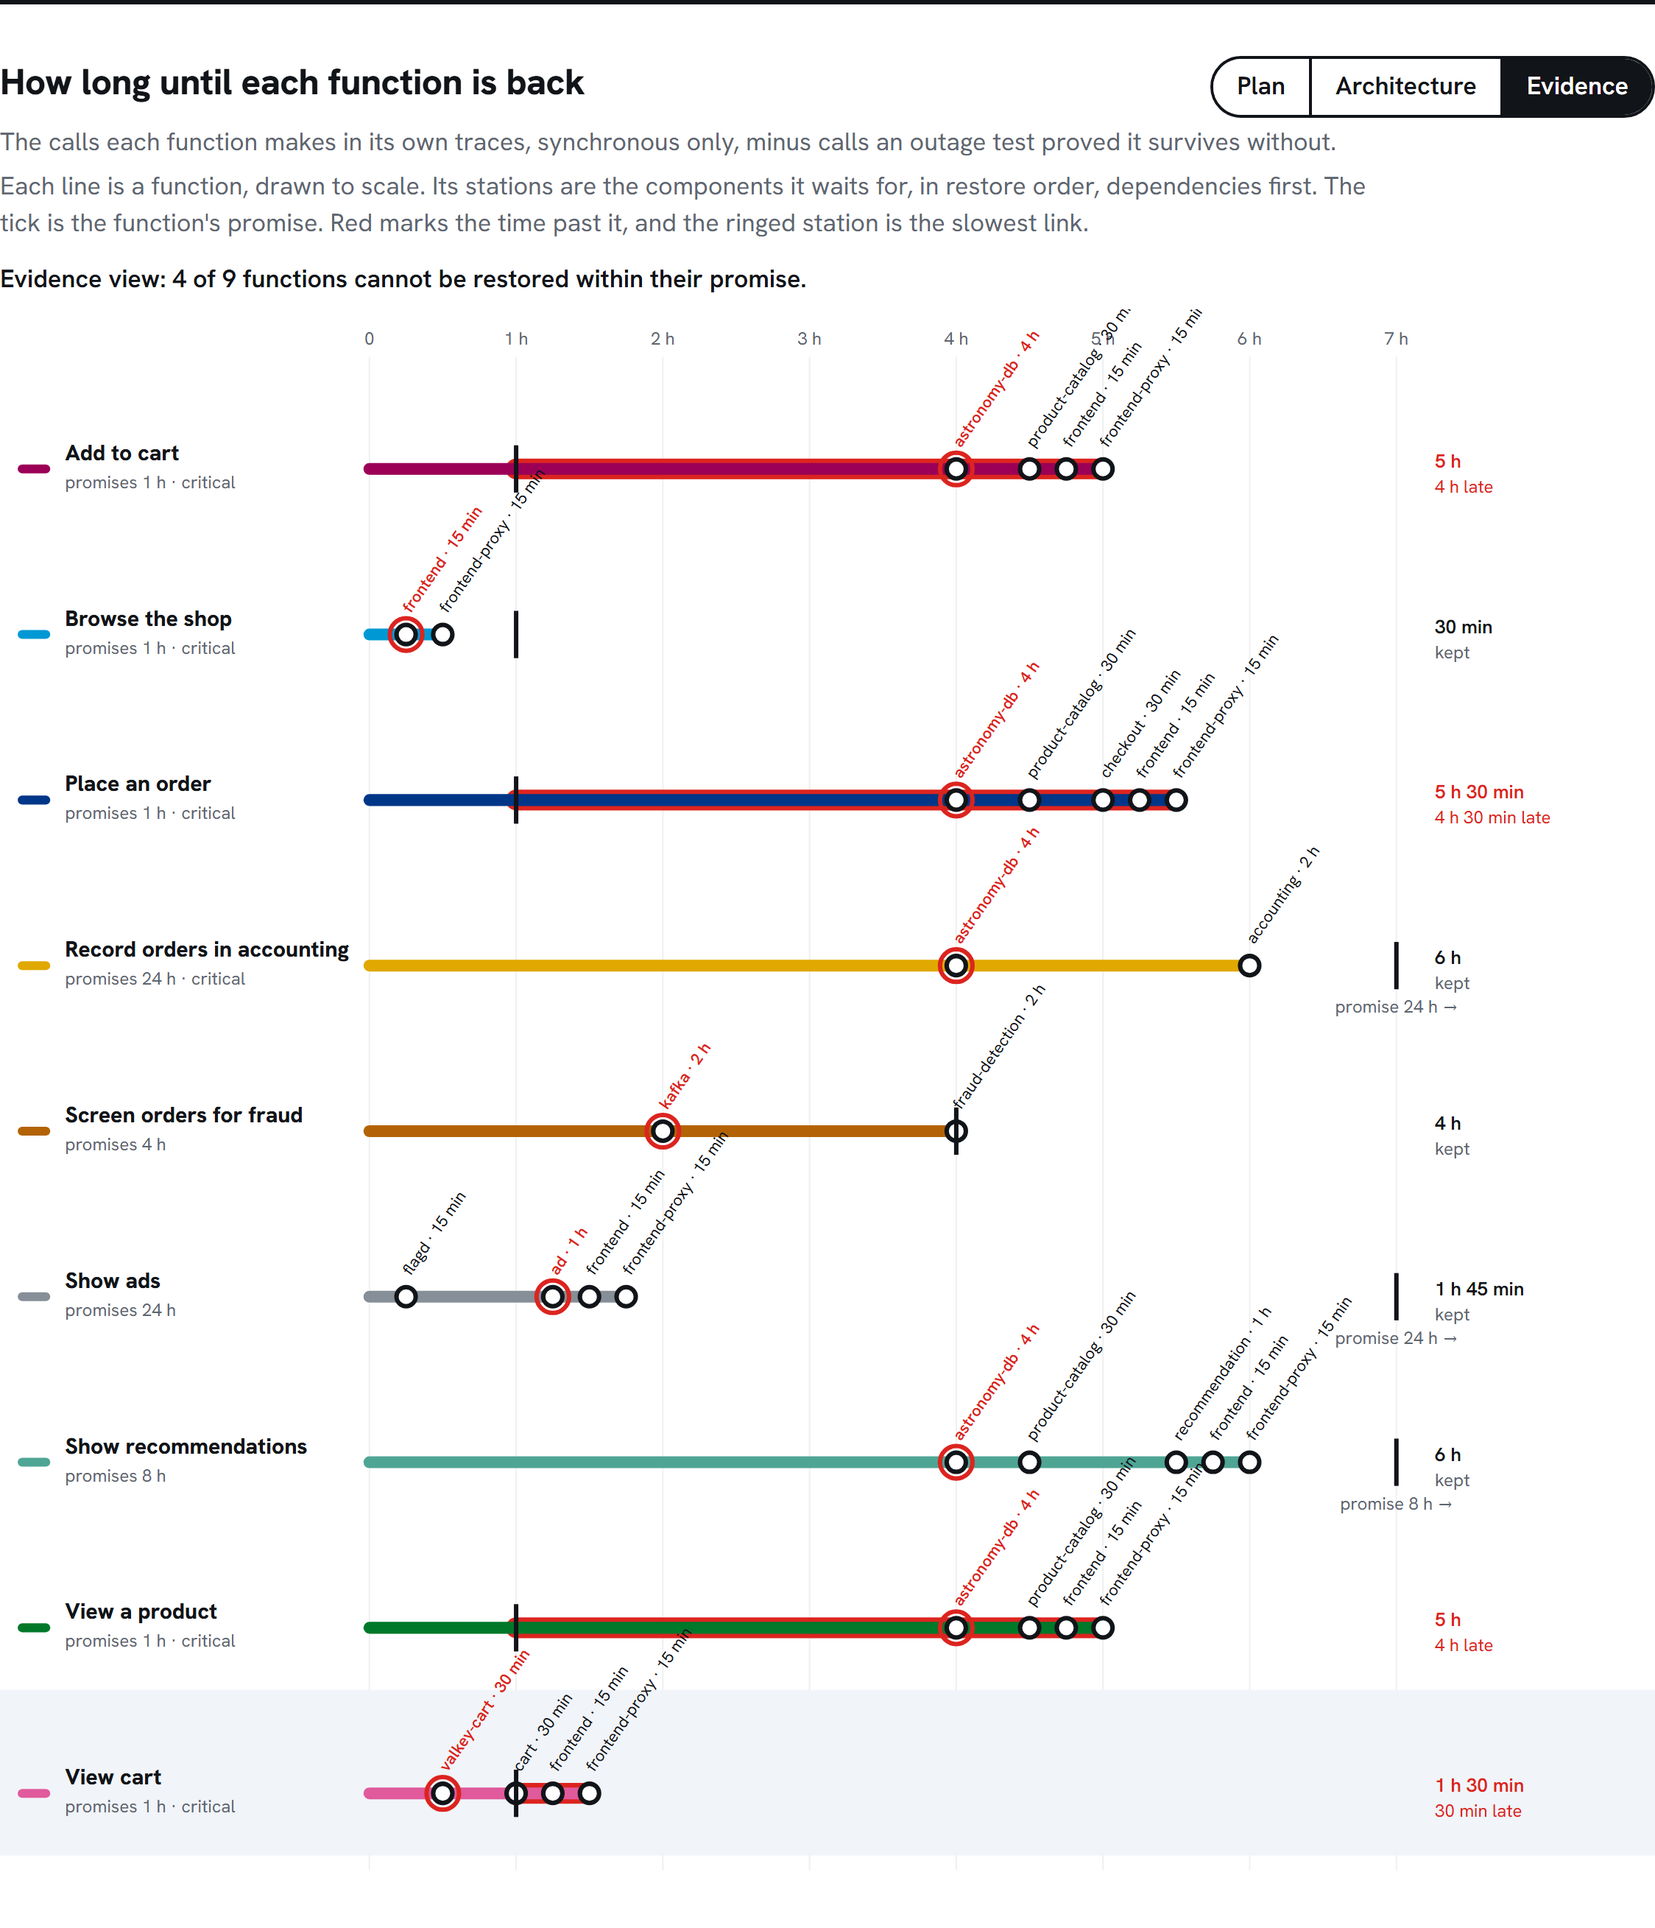
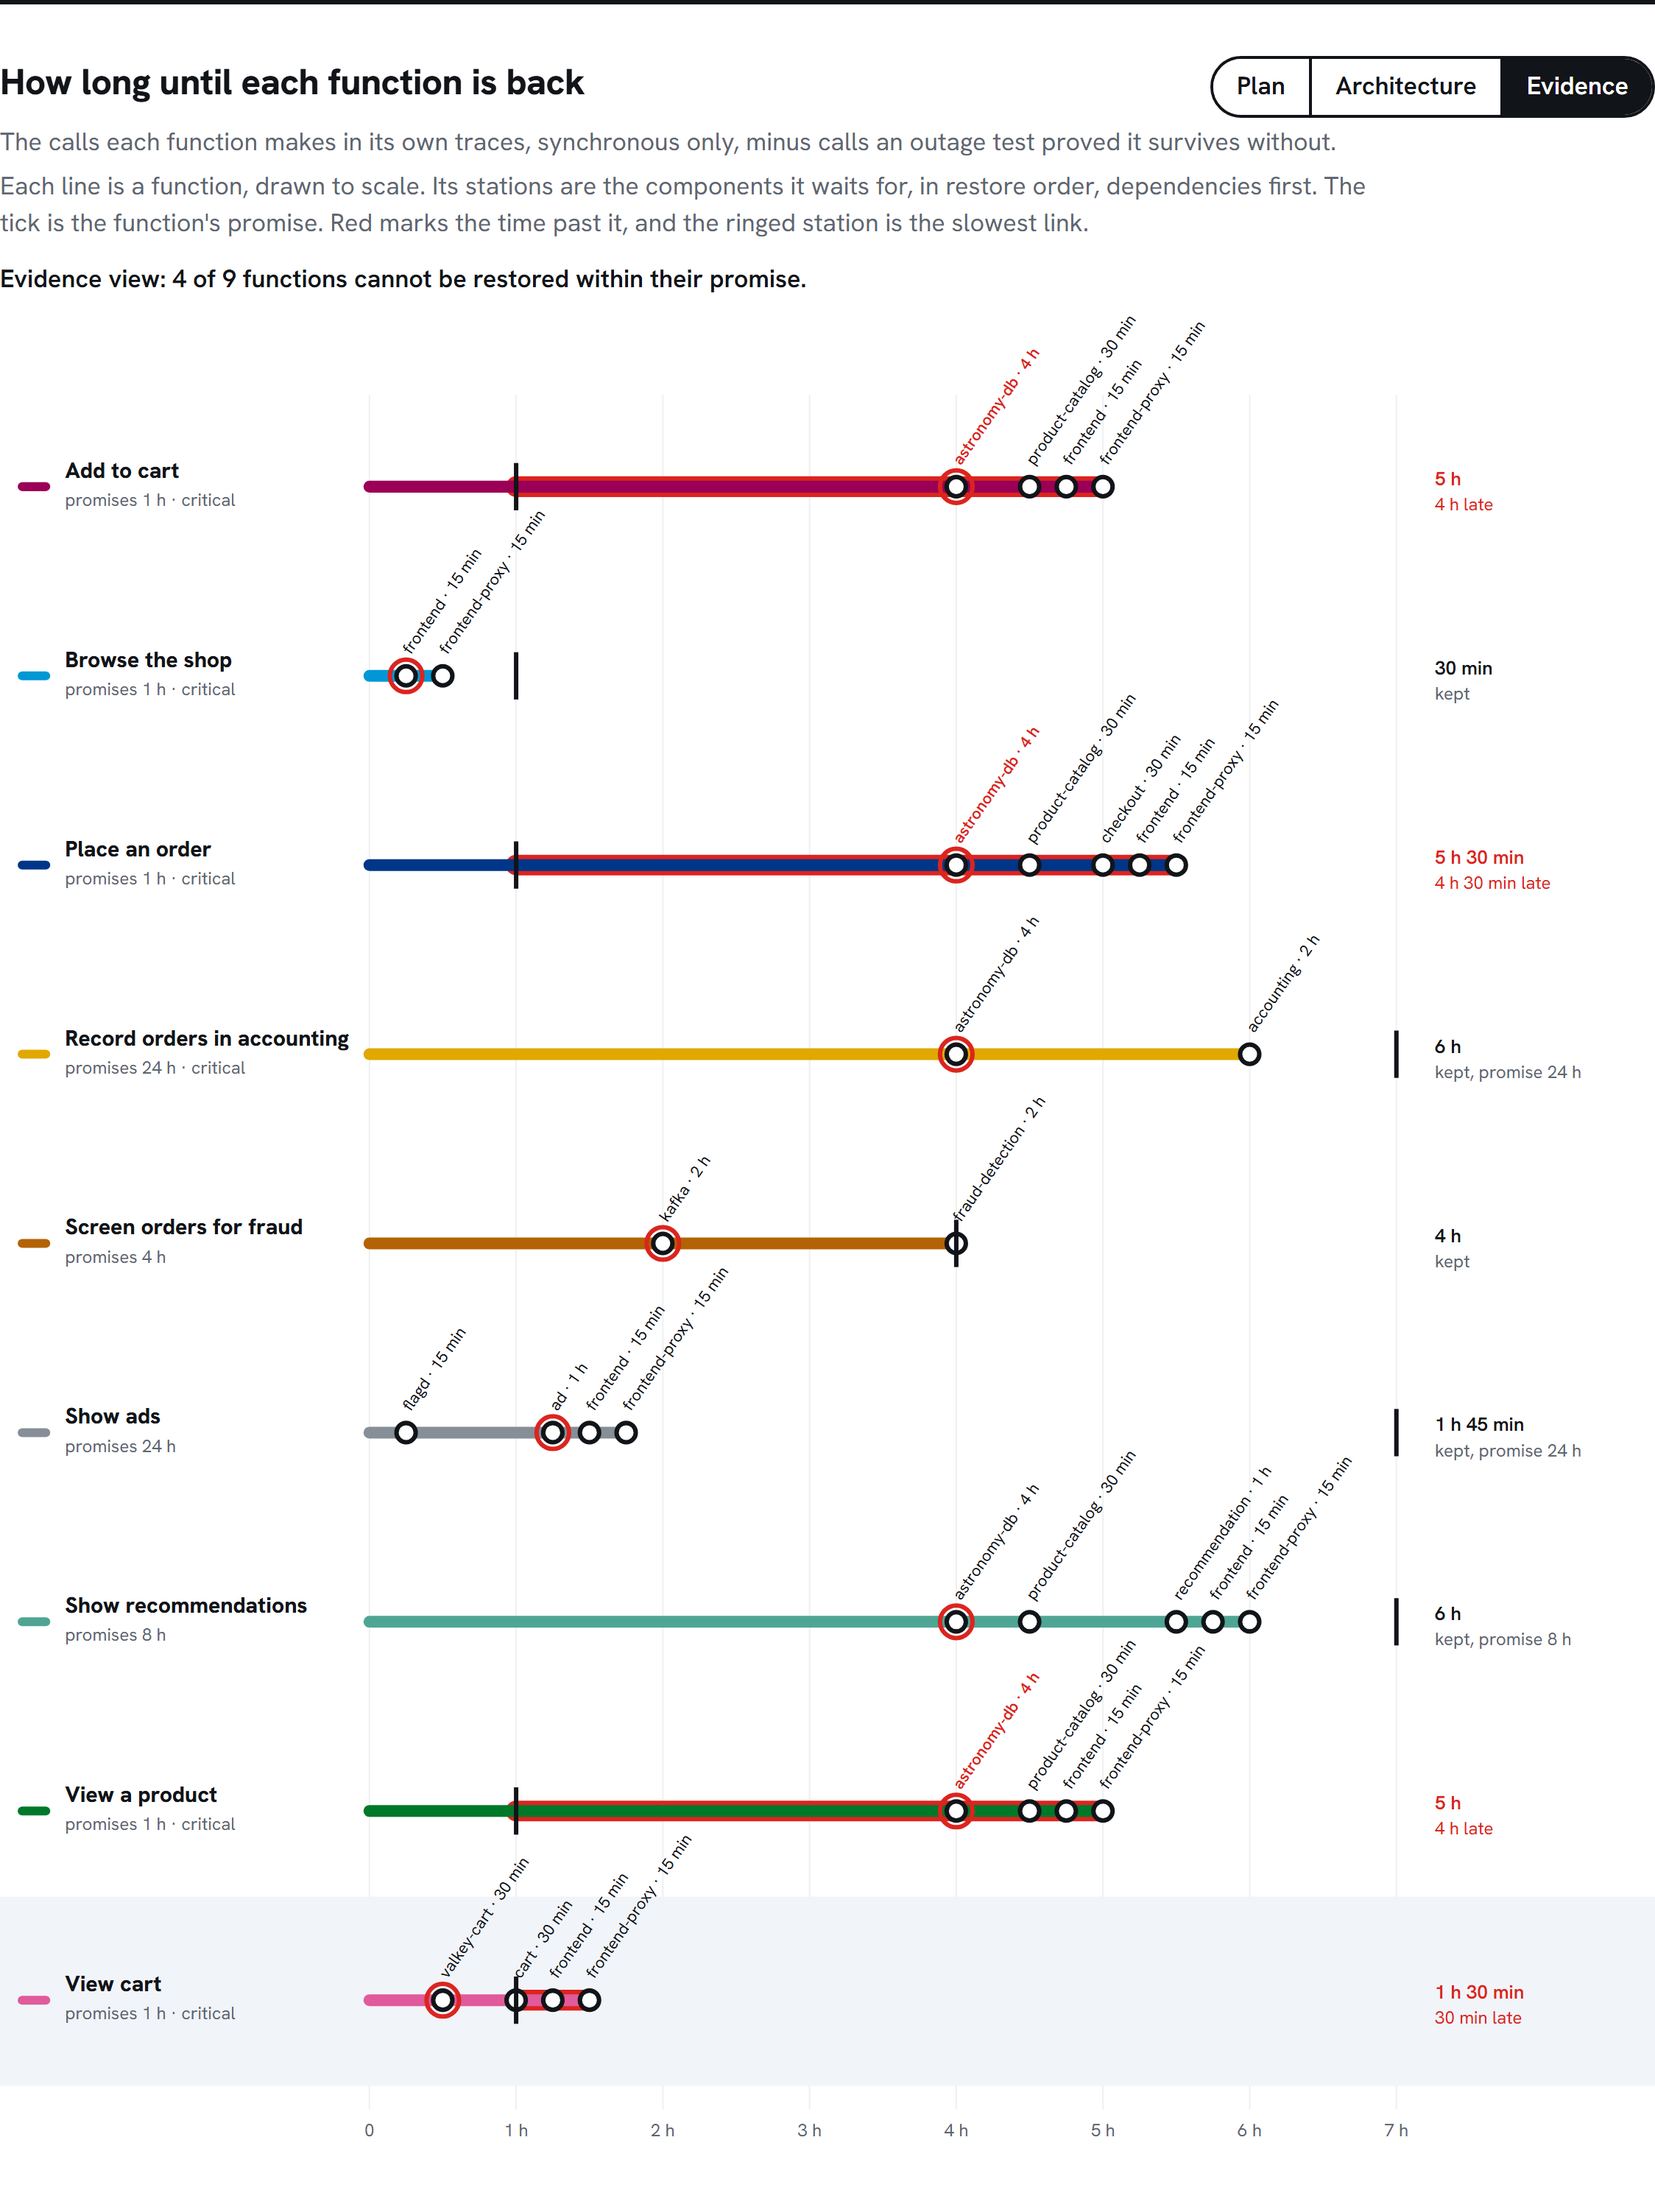
Page: hour scale below the lines, named columns in the results grid

diff --git a/web/js/app.js b/web/js/app.js
@@ -87,13 +87,14 @@ function drawMap() {
   const maxChain = Math.max(360, ...rows.map((r) => (r.chain.length ? r.chain[r.chain.length - 1].at : 0)));
   const scaleMax = Math.ceil((maxChain + 30) / 60) * 60;
   const x = (m) => left + ((right - left) * Math.min(m, scaleMax)) / scaleMax;
-  const rowH = 112;
-  const top = 46;
-  const height = top + rows.length * rowH + 10;
+  const rowH = 128;
+  const top = 58;
+  const height = top + rows.length * rowH + 34;
   const parts = [];
+  // The hour scale runs along the bottom, clear of the station names above each line.
   for (let m = 0; m <= scaleMax; m += 60) {
-    parts.push(`<line x1="${x(m)}" y1="${top - 14}" x2="${x(m)}" y2="${height - 8}" class="grid"/>`);
-    parts.push(`<text x="${x(m)}" y="${top - 22}" class="tick" text-anchor="middle">${m ? `${m / 60} h` : "0"}</text>`);
+    parts.push(`<line x1="${x(m)}" y1="${top}" x2="${x(m)}" y2="${height - 26}" class="grid"/>`);
+    parts.push(`<text x="${x(m)}" y="${height - 8}" class="tick" text-anchor="middle">${m ? `${m / 60} h` : "0"}</text>`);
   }
   rows.forEach((row, i) => {
     const y = top + i * rowH + 62;
@@ -118,13 +119,13 @@ function drawMap() {
     row.chain.forEach((s) => {
       const ring = s === slowest ? `<circle cx="${x(s.at)}" cy="${y}" r="11" fill="none" stroke="${RED}" stroke-width="3"/>` : "";
       parts.push(`${ring}<circle cx="${x(s.at)}" cy="${y}" r="6.5" class="station"/>`);
-      parts.push(`<text transform="translate(${x(s.at) + 3},${y - 14}) rotate(-55)" class="sname${s === slowest ? " slow" : ""}">${esc(s.name)} · ${minutes(s.recovery)}</text>`);
+      parts.push(`<text transform="translate(${x(s.at) + 3},${y - 14}) rotate(-55)" class="sname${s === slowest && s.recovery > promise ? " slow" : ""}">${esc(s.name)} · ${minutes(s.recovery)}</text>`);
     });
     const tick = promise <= scaleMax ? x(promise) : right;
     parts.push(`<line x1="${tick}" y1="${y - 16}" x2="${tick}" y2="${y + 16}" class="promise"/>`);
-    if (promise > scaleMax) parts.push(`<text x="${tick}" y="${y + 32}" class="pnote" text-anchor="middle">promise ${minutes(promise)} →</text>`);
     const first = end === 0 ? "nothing under it" : minutes(end);
-    const second = end === 0 ? "" : late ? `${minutes(end - promise)} late` : "kept";
+    const beyond = promise > scaleMax ? `, promise ${minutes(promise)}` : "";
+    const second = end === 0 ? "" : late ? `${minutes(end - promise)} late` : `kept${beyond}`;
     parts.push(`<text x="${right + 26}" y="${y - 1}" class="verdict${late ? " late" : ""}">${first}</text>`);
     parts.push(`<text x="${right + 26}" y="${y + 16}" class="vnote${late ? " late" : ""}">${second}</text>`);
     parts.push("</g>");
@@ -275,7 +276,7 @@ function drawResults() {
   const stops = t.outcomes.filter((o) => o.kind === "stop");
   const fnNames = t.functions;
   const pred = t.predictions || {};
-  const head = `<tr><th scope="col">Component stopped</th>${fnNames.map((f) => `<th scope="col"><span class="swatch" style="background:${LINE[f] || "#333"}"></span><span class="vh">${esc(f)}</span></th>`).join("")}</tr>`;
+  const head = `<tr><th scope="col" class="corner">Component stopped</th>${fnNames.map((f) => `<th scope="col" class="fn"><span class="vname">${esc(f)}</span><span class="swatch" style="background:${LINE[f] || "#333"}"></span></th>`).join("")}</tr>`;
   const body = stops
     .map((o) => {
       const cells = fnNames
@@ -291,8 +292,9 @@ function drawResults() {
     })
     .join("");
   $("#results-table").innerHTML = `<thead>${head}</thead><tbody>${body}</tbody>`;
-  const legend = fnNames.map((f) => `<li><span class="swatch" style="background:${LINE[f] || "#333"}"></span>${esc(f)}</li>`).join("");
-  $("#results-legend").innerHTML = legend;
+  $("#results-legend").innerHTML = `<li><span class="key">●</span> the function went down</li>
+    <li><span class="key miss-key"></span> the evidence view, frozen before the test, said otherwise</li>
+    <li><span class="key">·</span> no order reached the back office in the window, so it is not judged</li>`;
   const views = t.views?.stop || {};
   $("#results-scores").innerHTML = VIEWS.filter((v) => views[v])
     .map((v) => {

diff --git a/web/style.css b/web/style.css
@@ -49,7 +49,6 @@ section { padding: 34px 0 30px; border-top: 3px solid var(--ink); margin-top: 26
 #map .sname { font-size: 11px; fill: var(--ink); }
 #map .sname.slow { fill: var(--red); font-weight: 600; }
 #map .promise { stroke: var(--ink); stroke-width: 3; }
-#map .pnote { font-size: 12px; fill: var(--muted); }
 #map .verdict { font-size: 13px; font-weight: 600; fill: var(--ink); }
 #map .verdict.late { fill: var(--red); }
 #map .vnote { font-size: 12px; fill: var(--muted); }
@@ -61,11 +60,11 @@ section { padding: 34px 0 30px; border-top: 3px solid var(--ink); margin-top: 26
 .big { font-size: 1.5rem; font-weight: 800; margin: 0; }
 .big.late, .late > b { color: var(--red); }
 .list { margin: 0; }
-.stops { list-style: none; padding: 0; margin: 8px 0 0; display: flex; flex-wrap: wrap; align-items: center; row-gap: 8px; }
+.stops { list-style: none; padding: 0; margin: 8px 0 0; display: flex; flex-wrap: wrap; align-items: center; gap: 8px 8px; }
 .stops li { display: inline-flex; align-items: center; gap: 6px; font-size: 0.92rem; }
 .stops li + li::before { content: ""; width: 22px; height: 5px; background: var(--ink); margin: 0 6px 0 0; border-radius: 3px; }
 .stops .dot { width: 12px; height: 12px; border-radius: 50%; border: 3px solid var(--ink); background: var(--paper); }
-.stops .slow .dot { box-shadow: 0 0 0 3px var(--paper), 0 0 0 6px var(--red); }
+.stops .slow .dot { box-shadow: 0 0 0 3px var(--paper), 0 0 0 6px var(--red); margin: 0 4px 0 6px; }
 .stops .slow { color: var(--red); font-weight: 600; }
 .tests, .impact, .scores { padding-left: 1.1rem; margin: 6px 0; }
 .tests li, .impact li, .scores li { margin: 4px 0; }
@@ -87,6 +86,10 @@ textarea { width: 100%; resize: vertical; }
 table { border-collapse: collapse; font-size: 0.9rem; }
 th, td { padding: 4px 8px; text-align: center; }
 th[scope="row"] { text-align: right; font-weight: 600; white-space: nowrap; }
+th.corner { text-align: right; vertical-align: bottom; padding-bottom: 10px; }
+th.fn { vertical-align: bottom; padding: 0 4px 8px; }
+th.fn .vname { display: block; writing-mode: vertical-rl; transform: rotate(180deg); font-weight: 600; font-size: 0.85rem; margin: 0 auto 8px; white-space: nowrap; }
+th.fn .swatch { width: 24px; }
 td { width: 34px; height: 30px; border-bottom: 1px solid var(--grid); font-size: 1.1rem; }
 td.hit { color: var(--ink); }
 td.miss { background: #fde8e7; }
@@ -94,6 +97,8 @@ td.hit.miss { color: var(--red); }
 td.na { color: var(--muted); }
 .legend { list-style: none; padding: 0; display: flex; flex-wrap: wrap; gap: 6px 18px; font-size: 0.85rem; color: var(--muted); }
 .legend li { display: inline-flex; align-items: center; gap: 6px; }
+.legend .key { display: inline-block; min-width: 18px; text-align: center; color: var(--ink); }
+.legend .miss-key { height: 16px; background: #fde8e7; }
 footer { padding: 26px 28px 46px; color: var(--muted); border-top: 1px solid var(--rule); margin-top: 20px; font-size: 0.9rem; }
 footer a { color: var(--blue); }
 code { font-family: "JetBrains Mono", ui-monospace, monospace; font-size: 0.88em; }

diff --git a/README.md b/README.md
@@ -25,7 +25,7 @@ In business-continuity audits I worked on, recovery times were set one applicati
 | Criterion | Where it is answered |
 |---|---|
 | Relate and connected context | [How it uses Relate](#how-it-uses-relate): the answers are path aggregates computed in Cypher on Relate ([`slowest_link/checks.py`](slowest_link/checks.py)); the plan is a Markdown vault Relate opens as a graph; the same queries run in the CLI, the MCP server and the browser ([parity check](web/test/parity.mjs)) |
-| Functionality and completeness | [See it work](#see-it-work), [Run it](#run-it): command line, MCP server, agent skill and hook, CI guard, browser page, Docker images; 129 tests |
+| Functionality and completeness | [See it work](#see-it-work), [Run it](#run-it): command line, MCP server, agent skill and hook, CI guard, browser page, Docker images; 130 tests |
 | Usefulness | [Use case](#use-case), [Results](#results): every finding comes from a real system, its traces and 34 outage tests on it |
 | Documentation and reproducibility | [Run it](#run-it) needs no keys and no Docker; [`experiments/PROTOCOL.md`](experiments/PROTOCOL.md) and the committed evidence reproduce every number |
 | Creativity | A recovery promise checked as a path through a graph, with three kinds of evidence on each edge: declared, observed, proved by a test |
@@ -227,7 +227,7 @@ relate --read-only --database plan "MATCH (f:Function) RETURN f.name, f.promise_
 relate serve --mcp stdio --database plan --read-only      # Relate's own MCP server on the plan
 ```
 
-Tests: `pip install -r requirements-dev.txt`, then `python -m pytest --cov`. 129 tests run in a new random order each time; they cover 98% of the decision core's lines and 91% of its branches, and CI fails below 90%. `cd web && npm ci && node test/parity.mjs` checks that the browser code gives the command line's answers on Relate's WebAssembly build.
+Tests: `pip install -r requirements-dev.txt`, then `python -m pytest --cov`. 130 tests run in a new random order each time; they cover 98% of the decision core's lines and 91% of its branches, and CI fails below 90%. `cd web && npm ci && node test/parity.mjs` checks that the browser code gives the command line's answers on Relate's WebAssembly build.
 
 To repeat the experiments on your own machine (Docker, about 8 GB of images), follow [`experiments/PROTOCOL.md`](experiments/PROTOCOL.md).
 
